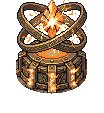
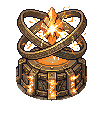
Battery well: click it to step through its versions; no cut-off top, still rings, softer light
The user, looking at the steady loop: the top was cut off, the rings wobble
rather than turn, the glow is too strong.

- Cut-off: the animations reach 7 px above the bought well, and every frame
  was cropped to the well's box. well_frames.py now adds those rows on top
  (frames.json `rise`) and the sprite is raised by them.
- Rings: the bought loop morphs the rings into one face-on hoop and back
  (its frames 4-10), which no stitching fixes. Steady is now the well as
  bought, still, with the runes' shimmer; the loop is kept for the preview.
- Light: the halo is about half as strong, the well's scene light 0.8 to 0.55.

Clicking the well (left button, the battery only, the click casts nothing)
steps through still, the bought loop, overloaded, overloaded to failed,
failed, failed to repaired, then back to the game's state; a tag at the top
names each. ?well=n opens on version n; scripts/well-states.mjs shoots them.

Claude-Session: https://claude.ai/code/session_01JAzvjmRJ1wdD5eYGXNht1d

diff --git a/game/packages/client/src/art/well-anim.ts b/game/packages/client/src/art/well-anim.ts
@@ -2,18 +2,21 @@
  * The battery's well, alive, from bought frames (PixelLab, the user's approval 2026-11-12; tools/art-import/
  * well_frames.py). Its three states:
  *
- *   steady      the rings turning about their own axes, the crystal pulsing: a 16-frame loop
+ *   steady      the well as bought, still, its runes shimmering and its crystal's light breathing. The bought 16-frame
+ *               loop is kept but not played: its rings morph into one face-on hoop and back rather than turn (the
+ *               user, 2026-11-12: "they just wobble weirdly")
  *   overloaded  as the well fails (`unstable` rising): the bought Overloaded picture (rings knocked askew, the crystal
- *               cracked and blazing), cross-faded to from the loop as failing starts (the user: no bought transition
- *               needed there), juddering, flaring, arcs jumping from the crystal to the rings
+ *               cracked and blazing), cross-faded to as failing starts (the user: no bought transition needed there),
+ *               juddering, flaring, arcs jumping from the crystal to the rings
  *   failed      as it dies (`power` falling, art/power-down.ts): the 13-frame overloaded-to-failed animation, played
  *               by how far the power is gone, ending on the bought Failed picture
- *   repaired    `repair` rising from 0 to 1 plays the failed-to-repaired animation, back into the loop (the repair beat
- *               is to come)
+ *   repaired    `repair` rising from 0 to 1 plays the failed-to-repaired animation (the repair beat is to come)
+ *
+ * Clicking the well steps through every version (`preview`, main.ts), so they can be looked at side by side.
  *
  * Code adds only light on top: a halo behind the crystal and the drum's runes shimmering while steady. Everything is
  * painted each frame into one canvas that is the well-top prop's texture, so it sorts among the actors as the prop did
- * (art/props.ts).
+ * (art/props.ts). The frames have `rise` rows above the bought well's crop, for the flare and the lifting rings.
  */
 import { Texture } from 'pixi.js';
 import * as X from './px';
@@ -21,7 +24,7 @@ import type { Ctx } from './px';
 import { clamp, rand } from './util';
 
 interface Layers { size: [number, number]; crystal: { cx: number; cy: number; bottom: number }; seams: number[][] }
-interface Frames { cell: [number, number]; sets: Record<string, number> }
+interface Frames { cell: [number, number]; rise?: number; sets: Record<string, number> }
 const metas = import.meta.glob<Layers>('../../../../content/assets/well/layers.json', { eager: true, import: 'default' });
 const frameMetas = import.meta.glob<Frames>('../../../../content/assets/well/frames/frames.json', { eager: true, import: 'default' });
 const urls = import.meta.glob<string>('../../../../content/assets/well/frames/*.png', { eager: true, query: '?url', import: 'default' });
@@ -31,11 +34,24 @@ const url = (name: string): string | undefined => Object.entries(urls).find(([k]
 
 /** Room round the bought canvas for the judder and the arcs, px. */
 export const WELL_MARGIN = 8;
-/** The steady loop's speed, frames a second; how long failing takes to cross-fade into the Overloaded picture, s. */
-const LOOP_FPS = 5, TO_OVERLOAD = 0.5;
+/** Rows the frames reach above the bought well's crop. */
+export const WELL_RISE = FRAMES?.rise ?? 0;
+/** Animation speed, frames a second; how long failing takes to cross-fade into the Overloaded picture, s. */
+const FPS = 5, TO_OVERLOAD = 0.5;
 /** How squashed the rings are seen from here, for where an arc lands round them. */
 const RING_SQUASH = 0.62;
 const HOT = [255, 230, 160];
+
+/** The versions clicking the well steps through (the preview). A strip plays and then holds its last frame for a moment. */
+export const PREVIEWS: readonly { name: string; label: string }[] = [
+  { name: 'still', label: 'steady (in the game)' },
+  { name: 'steady', label: 'steady, the bought loop (not used: the rings morph)' },
+  { name: 'overloaded', label: 'overloaded (failing)' },
+  { name: 'fail', label: 'overloaded → failed' },
+  { name: 'failed', label: 'failed' },
+  { name: 'repair', label: 'failed → repaired' },
+];
+const HOLD = 1.2;
 
 const loadImage = (src: string): Promise<HTMLImageElement> => new Promise((done, fail) => { const im = new Image(); im.onload = () => done(im); im.onerror = () => fail(new Error('could not load ' + src)); im.src = src; });
 
@@ -46,6 +62,9 @@ export class WellAnim {
   ready = false;
   /** When failing began (view clock), for the cross-fade into Overloaded; -1 while it holds. */
   private overloadAt = -1;
+  /** The preview: which of PREVIEWS is shown in place of the game's state (-1: the game's), and since when. */
+  preview = -1;
+  private previewAt = -1;
 
   constructor() {
     const [W, H] = FRAMES ? FRAMES.cell : [104, 113];
@@ -66,6 +85,13 @@ export class WellAnim {
     return true;
   }
 
+  /** The next version in the preview, then back to the game's own state. Returns its label, or null when back. */
+  nextPreview(): string | null {
+    this.preview = this.preview + 1 >= PREVIEWS.length ? -1 : this.preview + 1;
+    this.previewAt = -1;
+    return this.preview < 0 ? null : PREVIEWS[this.preview].label;
+  }
+
   /** Draws frame k of strip `name` at (x, y). */
   private frame(g: Ctx, name: string, k: number, x: number, y: number): void {
     const [W, H] = FRAMES.cell, n = FRAMES.sets[name], f = Math.max(0, Math.min(n - 1, k));
@@ -81,64 +107,86 @@ export class WellAnim {
     const { c, x: g } = this.cv, M = WELL_MARGIN;
     g.setTransform(1, 0, 0, 1, 0, 0); g.clearRect(0, 0, c.width, c.height); g._fs = null;
     g.globalAlpha = 1; g.globalCompositeOperation = 'source-over';
+    if (this.preview >= 0) return this.showPreview(g, t);
     const dead = 1 - power, pulse = 0.5 + 0.5 * Math.sin(t * 2.1);
     const flare = unstable > 0 && power > 0.9 && rand(Math.floor(t * 9), 3, 41) < unstable * 0.45 ? 1 : 0;
     if (unstable > 0 && this.overloadAt < 0) this.overloadAt = t;
     if (unstable <= 0 && dead <= 0) this.overloadAt = -1;
-    const loop = Math.floor(t * LOOP_FPS) % FRAMES.sets.steady;
     let lit: number;
 
     if (repair > 0 && dead >= 1) {
-      // mended: the light comes back and the rings rise, into the loop
-      const n = FRAMES.sets.repair;
-      this.frame(g, 'repair', Math.round(repair * (n - 1)), M, M);
+      // mended: the light comes back and the rings rise
+      this.frame(g, 'repair', Math.round(repair * (FRAMES.sets.repair - 1)), M, M);
       lit = repair;
     } else if (dead > 0) {
       // dying: the bought power-down, by how far the power has gone
-      const n = FRAMES.sets.fail;
-      this.frame(g, 'fail', Math.round(clamp(dead, 0, 1) * (n - 1)), M, M);
+      this.frame(g, 'fail', Math.round(clamp(dead, 0, 1) * (FRAMES.sets.fail - 1)), M, M);
       lit = power;
     } else if (unstable > 0) {
-      // overloaded: the loop cross-fades into the Overloaded picture, which judders
+      // overloaded: the still well cross-fades into the Overloaded picture, which judders
       const k = clamp((t - this.overloadAt) / TO_OVERLOAD, 0, 1);
       const jit = rand(Math.floor(t * 14), 2, 7) < 0.25 + unstable * 0.5;
       const jx = jit ? Math.round((rand(Math.floor(t * 14), 3, 7) - 0.5) * 2) : 0, jy = jit ? Math.round(rand(Math.floor(t * 14), 4, 7) - 0.5) : 0;
-      if (k < 1) this.frame(g, 'steady', loop, M, M);
+      if (k < 1) this.frame(g, 'still', 0, M, M);
       g.globalAlpha = k; this.frame(g, 'overloaded', 0, M + jx, M + jy); g.globalAlpha = 1;
-      if (flare) { g.globalCompositeOperation = 'lighter'; g.globalAlpha = 0.35; this.frame(g, 'overloaded', 0, M + jx, M + jy); g.globalCompositeOperation = 'source-over'; g.globalAlpha = 1; }
+      if (flare) { g.globalCompositeOperation = 'lighter'; g.globalAlpha = 0.25; this.frame(g, 'overloaded', 0, M + jx, M + jy); g.globalCompositeOperation = 'source-over'; g.globalAlpha = 1; }
       lit = 1;
     } else {
-      // steady: the rings turning, the runes shimmering
-      this.frame(g, 'steady', loop, M, M);
+      // steady: the well as bought, its runes shimmering
+      this.frame(g, 'still', 0, M, M);
       this.seams(g, t, 0.6);
       lit = 1;
     }
-    // a soft halo round the crystal, behind nothing but bright enough to read through the rings
-    if (lit > 0.05) {
-      g.globalCompositeOperation = 'destination-over';
-      X.glow(g, M + LAYERS.crystal.cx, M + LAYERS.crystal.cy, 16 + flare * 6, flare ? '#fff2c0' : '#ff9a30', (0.18 + 0.12 * pulse + 0.2 * flare) * lit);
-      g.globalCompositeOperation = 'source-over';
-    }
+    this.halo(g, lit, pulse, flare);
     if (unstable > 0.05 && dead <= 0) this.arcs(g, t, unstable, M);
     this.tex.source.update();
-    return lit * (0.75 + 0.25 * pulse) * (flare ? 1.3 : 1);
+    return lit * (0.75 + 0.25 * pulse) * (flare ? 1.2 : 1);
+  }
+
+  /** A version from PREVIEWS: a still holds, a strip plays once at FPS and holds its last frame, then plays again. */
+  private showPreview(g: Ctx, t: number): number {
+    const M = WELL_MARGIN, p = PREVIEWS[this.preview], n = FRAMES.sets[p.name] ?? 1;
+    if (this.previewAt < 0) this.previewAt = t;
+    const pulse = 0.5 + 0.5 * Math.sin(t * 2.1);
+    let k = 0, lit = 1;
+    if (p.name === 'steady') k = Math.floor(t * FPS) % n;
+    else if (n > 1) {
+      const e = (t - this.previewAt) % (n / FPS + HOLD);
+      k = Math.min(n - 1, Math.floor(e * FPS));
+      lit = p.name === 'fail' ? 1 - k / (n - 1) : k / (n - 1);
+    } else if (p.name === 'failed') lit = 0;
+    this.frame(g, p.name, k, M, M);
+    if (p.name === 'still') this.seams(g, t, 0.6);
+    this.halo(g, lit, pulse, 0);
+    if (p.name === 'overloaded') this.arcs(g, t, 0.6, M);
+    this.tex.source.update();
+    return lit * (0.75 + 0.25 * pulse);
+  }
+
+  /** A soft halo round the crystal, behind the rest, its light breathing. Kept low: the frames are bright themselves. */
+  private halo(g: Ctx, lit: number, pulse: number, flare: number): void {
+    if (lit <= 0.05) return;
+    const M = WELL_MARGIN;
+    g.globalCompositeOperation = 'destination-over';
+    X.glow(g, M + LAYERS.crystal.cx, M + WELL_RISE + LAYERS.crystal.cy, 14 + flare * 5, flare ? '#fff2c0' : '#ff9a30', (0.08 + 0.07 * pulse + 0.15 * flare) * lit);
+    g.globalCompositeOperation = 'source-over';
   }
 
   /** The runes on the drum's panels shimmer in a slow wave (strength k): the steady state only. */
   private seams(g: Ctx, t: number, k0: number): void {
-    const M = WELL_MARGIN;
+    const M = WELL_MARGIN, top0 = M + WELL_RISE;
     for (const [x, y, r, gg, b, top] of LAYERS.seams) {
       if (top) continue; // the drum's lit top is the frames' own
       const s = Math.sin(t * 2.6 - x * 0.42 - y * 0.23);
       if (s <= 0.6) continue;
       const k = ((s - 0.6) / 0.4) * k0;
-      X.px(g, M + x, M + y, `rgb(${Math.round(r + (HOT[0] - r) * k)},${Math.round(gg + (HOT[1] - gg) * k)},${Math.round(b + (HOT[2] - b) * k)})`);
+      X.px(g, M + x, top0 + y, `rgb(${Math.round(r + (HOT[0] - r) * k)},${Math.round(gg + (HOT[1] - gg) * k)},${Math.round(b + (HOT[2] - b) * k)})`);
     }
   }
 
   /** Overloaded: arcs jump from the crystal out to the rings, a few at a time, each for a moment. */
   private arcs(g: Ctx, t: number, unstable: number, M: number): void {
-    const f = Math.floor(t * 14), cx = M + LAYERS.crystal.cx, cy = M + LAYERS.crystal.cy;
+    const f = Math.floor(t * 14), cx = M + LAYERS.crystal.cx, cy = M + WELL_RISE + LAYERS.crystal.cy;
     const n = 1 + Math.floor(unstable * 3);
     for (let a = 0; a < n; a++) {
       if (rand(f, a, 61) > 0.35 + unstable * 0.5) continue;

diff --git a/game/packages/client/src/art/props.ts b/game/packages/client/src/art/props.ts
@@ -16,7 +16,7 @@ import { FIELD, gx, gy } from './field';
 import { towersLit, unstable, wellPower } from './power-down';
 import * as X from './px';
 import { clamp } from './util';
-import { WELL_MARGIN, WellAnim } from './well-anim';
+import { WELL_MARGIN, WELL_RISE, WellAnim } from './well-anim';
 
 /** `lit`: how much of its own light it gives now (the battery's power going down); `over`: its burnt-out art, laid over it. */
 interface Item { asset: string; meta: PropMeta; spr: Sprite; x: number; y: number; ox: number; oy: number; lit: number; over?: { spr: Sprite; ox: number; oy: number; ready: boolean } }
@@ -136,7 +136,7 @@ export class PropView {
     // the well's top is painted each frame (art/well-anim.ts), on the same foot with room round it for the rings
     const top = items.find((it) => it.asset === 'battery-well-top'), topArt = top ? propImage(top.asset, this.current) : null;
     if (top && topArt && (this.well.ready || (await this.well.load())) && ticket === this.wanted) {
-      top.spr.texture = this.well.tex; top.ox = topArt.foot[0] + WELL_MARGIN; top.oy = topArt.foot[1] + WELL_MARGIN; top.spr.visible = true;
+      top.spr.texture = this.well.tex; top.ox = topArt.foot[0] + WELL_MARGIN; top.oy = topArt.foot[1] + WELL_MARGIN + WELL_RISE; top.spr.visible = true;
       this.wellOn = true;
     }
     this.fx = NaN;
@@ -196,6 +196,19 @@ export class PropView {
 
   private well = new WellAnim();
   private wellOn = false;
+  /**
+   * The well's preview (art/well-anim.ts PREVIEWS): when canvas point (x, y) is on the well, steps to its next version
+   * and returns that version's label, or '' when back to the game's own state. Returns null when (x, y) misses it.
+   */
+  clickWell(x: number, y: number): string | null {
+    const top = this.items.find((it) => it.asset === 'battery-well-top');
+    if (!this.wellOn || !top?.spr.visible) return null;
+    const b = top.spr.getBounds();
+    if (x < b.minX || x > b.maxX || y < b.minY || y > b.maxY) return null;
+    return this.well.nextPreview() ?? '';
+  }
+  /** Shows the well's version n (PREVIEWS) from the start (?well=n, for screenshots). */
+  previewWell(n: number): void { this.well.preview = n - 1; this.well.nextPreview(); }
   /**
    * The battery, each frame: the well alive (art/well-anim.ts), and its power going down as an animation once it runs
    * dry (art/power-down.ts). Towers and heads fade, sputtering, into their burnt-out art laid over them

diff --git a/game/packages/client/src/main.ts b/game/packages/client/src/main.ts
@@ -247,6 +247,24 @@ async function boot(): Promise<void> {
     if (e.code === 'KeyI') { view.wizardHd = !view.wizardHd; setParam('wizard', view.wizardHd ? 'hd' : null); }
   });
 
+  // The battery: clicking the well steps through its versions (art/well-anim.ts PREVIEWS), named in a tag at the top.
+  // Caught before the input sees it, so that click casts nothing.
+  const wellTag = document.createElement('div');
+  wellTag.style.cssText = 'position:fixed;top:10px;left:50%;transform:translateX(-50%);z-index:20;pointer-events:none;display:none;font:13px/1.4 ui-monospace,Consolas,monospace;color:#ffe0b0;background:rgba(13,11,20,.85);border:1px solid #6a5030;border-radius:6px;padding:4px 10px';
+  document.body.appendChild(wellTag);
+  addEventListener('pointerdown', (e) => {
+    if (scenario.id !== 'battery' || menu?.open || e.button !== 0) return;
+    const r = app.canvas.getBoundingClientRect();
+    const label = view.props.clickWell(e.clientX - r.left, e.clientY - r.top);
+    if (label === null) return;
+    e.stopPropagation(); e.preventDefault();
+    wellTag.textContent = label ? `Well: ${label}. Click it for the next.` : '';
+    wellTag.style.display = label ? 'block' : 'none';
+  }, true);
+  // ?well=n: the battery's well opens on version n of PREVIEWS (0 the still well, 1 the bought loop, 2 overloaded, ...)
+  const wellAsk = params.get('well');
+  if (wellAsk !== null && wellAsk !== '') view.props.previewWell(Number(wellAsk));
+
   const scaleSteps = [0, 1, 2, 3, 4];
   const settings: Setting[] = [
     {

diff --git a/game/packages/client/src/art/lighting.ts b/game/packages/client/src/art/lighting.ts
@@ -57,7 +57,7 @@ export const moodOf = (room: string, override?: string | null): Mood => MOODS[ov
 export const PROP_LIGHTS: Readonly<Record<string, readonly [string, number, number]>> = {
   'crystal-ball': ['#b08aff', 46, 0.6], 'rune-circle': ['#b08aff', 54, 0.5], cauldron: ['#8ef07e', 36, 0.35], armillary: ['#ffd860', 30, 0.25],
   'lantern-post': ['#ffb060', 62, 0.8], 'ward-lamp': ['#9fd8ff', 58, 0.7], 'wax-candle-on-a-brass-holder': ['#ffb060', 26, 0.5], 'campfire-ring': ['#ff8a30', 72, 0.85],
-  'battery-well': ['#ff9a30', 84, 0.8], 'defence-tower': ['#ff9a30', 22, 0.22], 'test-rig': ['#b08aff', 34, 0.45], 'control-pedestal': ['#ffb060', 26, 0.35], 'small-glowing-blue-crystal': ['#6ab8ff', 22, 0.4],
+  'battery-well': ['#ff9a30', 84, 0.55], 'defence-tower': ['#ff9a30', 22, 0.22], 'test-rig': ['#b08aff', 34, 0.45], 'control-pedestal': ['#ffb060', 26, 0.35], 'small-glowing-blue-crystal': ['#6ab8ff', 22, 0.4],
 };
 
 const asNum = (c: RGB): number => (Math.round(c[0] * 255) << 16) | (Math.round(c[1] * 255) << 8) | Math.round(c[2] * 255);

diff --git a/tools/art-import/well_frames.py b/tools/art-import/well_frames.py
@@ -8,6 +8,9 @@ Sources (game/content/generated/pixellab/opening/well/, PixelLab, the user's app
   anim-fail/        animate_image, 12 frames, overloaded to failed: the light dying, the rings dropping onto the drum
   anim-repair/      animate_image, 12 frames, failed to base: light returning, the rings rising back into place
   (frame-00 of each is the input frame, as animate_image returns it)
+  candidate-1.png   the well as bought: the steady state in the game (the loop's rings morph into a hoop rather than turn)
+
+The animations reach up to 7 px higher than the bought well, so every cell has `rise` rows on top (frames.json).
 
 Every picture is cut as the bought well is (tools/art-import/defence.py): the same crop as candidate-1, and only the part
 standing on the steps (split_well's top), since the steps are their own prop and don't move. Writes
@@ -25,20 +28,30 @@ base = Image.open(os.path.join(RAW, 'candidate-1.png')).convert('RGBA')
 box = base.getchannel('A').getbbox()
 
 
-def top_of(path):
-    im = Image.open(path).convert('RGBA').crop(box)
-    return split_well(im)[1]
-
-
 SETS = {
+    'still': [os.path.join(RAW, 'candidate-1.png')],   # the well as bought: steady, in the game (the loop's rings morph rather than turn)
     'overloaded': [os.path.join(RAW, 'state-overloaded.png')],
     'failed': [os.path.join(RAW, 'state-failed.png')],
     'steady': sorted(glob.glob(os.path.join(RAW, 'anim-steady', 'frame-*.png')))[:-1],   # its last frame is its first again: a loop
     'fail': sorted(glob.glob(os.path.join(RAW, 'anim-fail', 'frame-*.png'))),
     'repair': sorted(glob.glob(os.path.join(RAW, 'anim-repair', 'frame-*.png'))),
 }
+# The animations reach higher than the bought well (the flare, the rings lifting): the cell gets `rise` rows on top, which
+# all belong to the top; the rest is split as the well is.
+RISE = max(0, max(box[1] - Image.open(p).getchannel('A').getbbox()[1] for ps in SETS.values() for p in ps))
+
+
+def top_of(path):
+    im = Image.open(path).convert('RGBA').crop((box[0], box[1] - RISE, box[2], box[3]))
+    W, H = im.size
+    out = Image.new('RGBA', (W, H))
+    out.paste(im.crop((0, 0, W, RISE)), (0, 0))
+    out.paste(split_well(im.crop((0, RISE, W, H)))[1], (0, RISE))
+    return out
+
+
 os.makedirs(OUT, exist_ok=True)
-meta = {'cell': [box[2] - box[0], box[3] - box[1]], 'sets': {}}
+meta = {'cell': [box[2] - box[0], box[3] - box[1] + RISE], 'rise': RISE, 'sets': {}}
 for name, paths in SETS.items():
     tops = [top_of(p) for p in paths]
     W, H = tops[0].size

diff --git a/game/README.md b/game/README.md
@@ -206,4 +206,5 @@ Two wizards on one machine, the Atlas rules driving real casts, the Pixel Battle
 Open:
 - **Rendering through a low-res target.** The scene draws straight to the stage at an integer scale, which is pixel-exact for unrotated sprites. Drawing into a low-res RenderTexture first would also snap rotated or scaled effects to the art grid. In headless Chrome (SwiftShader and D3D11), the target held the pixels but its sprite never reached the presented frame. Revisit with a real browser when the effects need rotation.
 - **Balance** is placeholder everywhere (`packages/sim/src/config.ts`).
+- `node scripts/well-states.mjs` (after a build): the battery's well in each version (art/well-anim.ts PREVIEWS), cropped, in shots/well-states. In the game, clicking the well steps through the same versions, and `?well=n` opens on version n.
 - `node scripts/path-styles.mjs` (after a build): the battery's glyph paths in each style of `PATH_STYLES` (art/glyph-path.ts), from one spot, in shots/path-styles.
